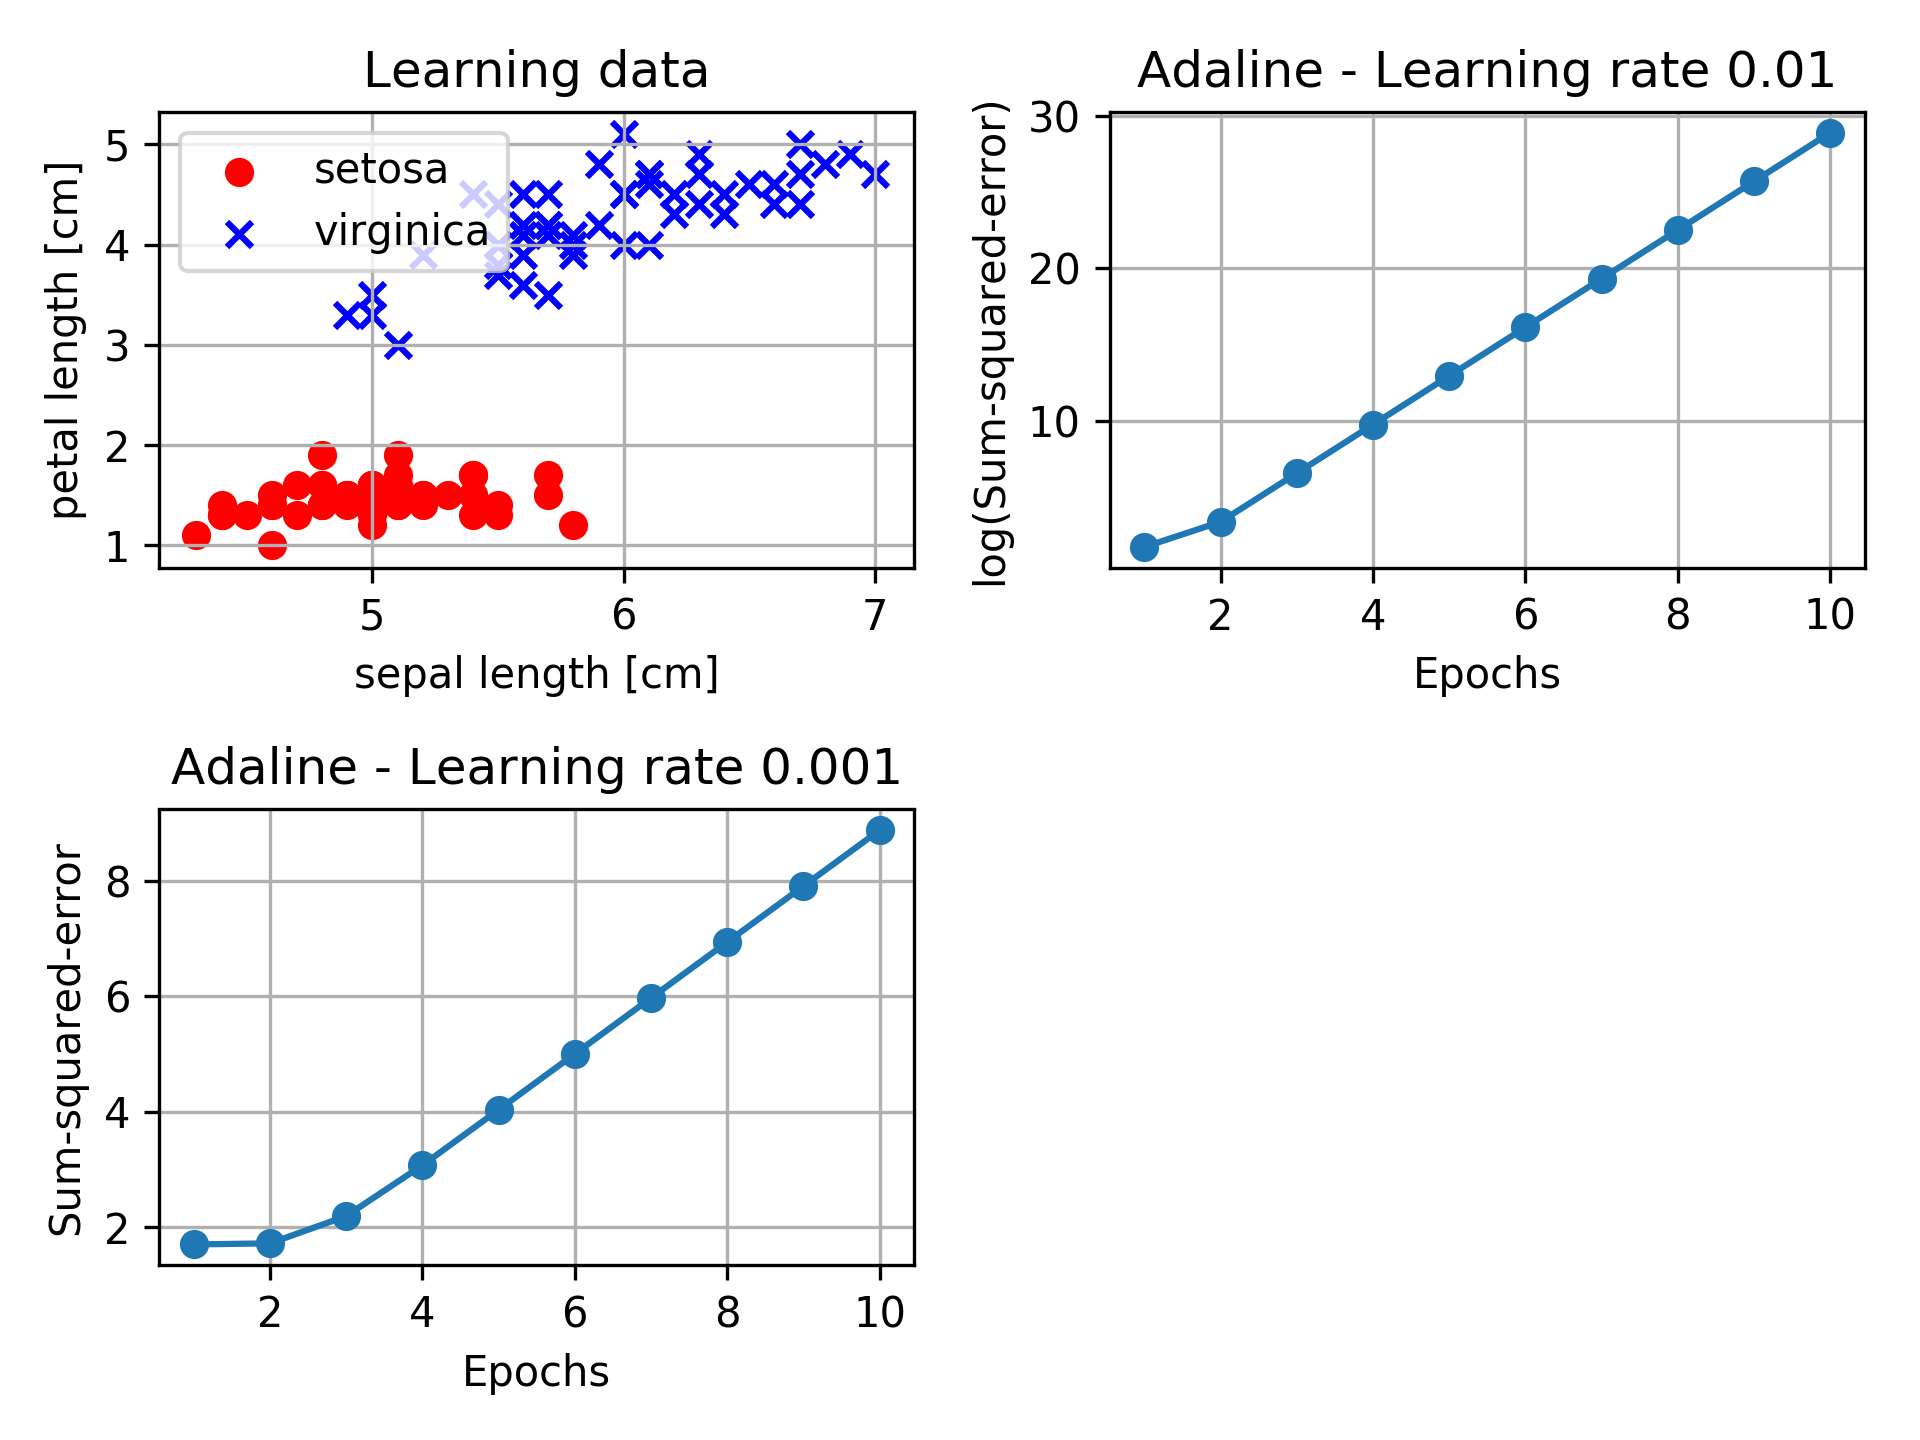
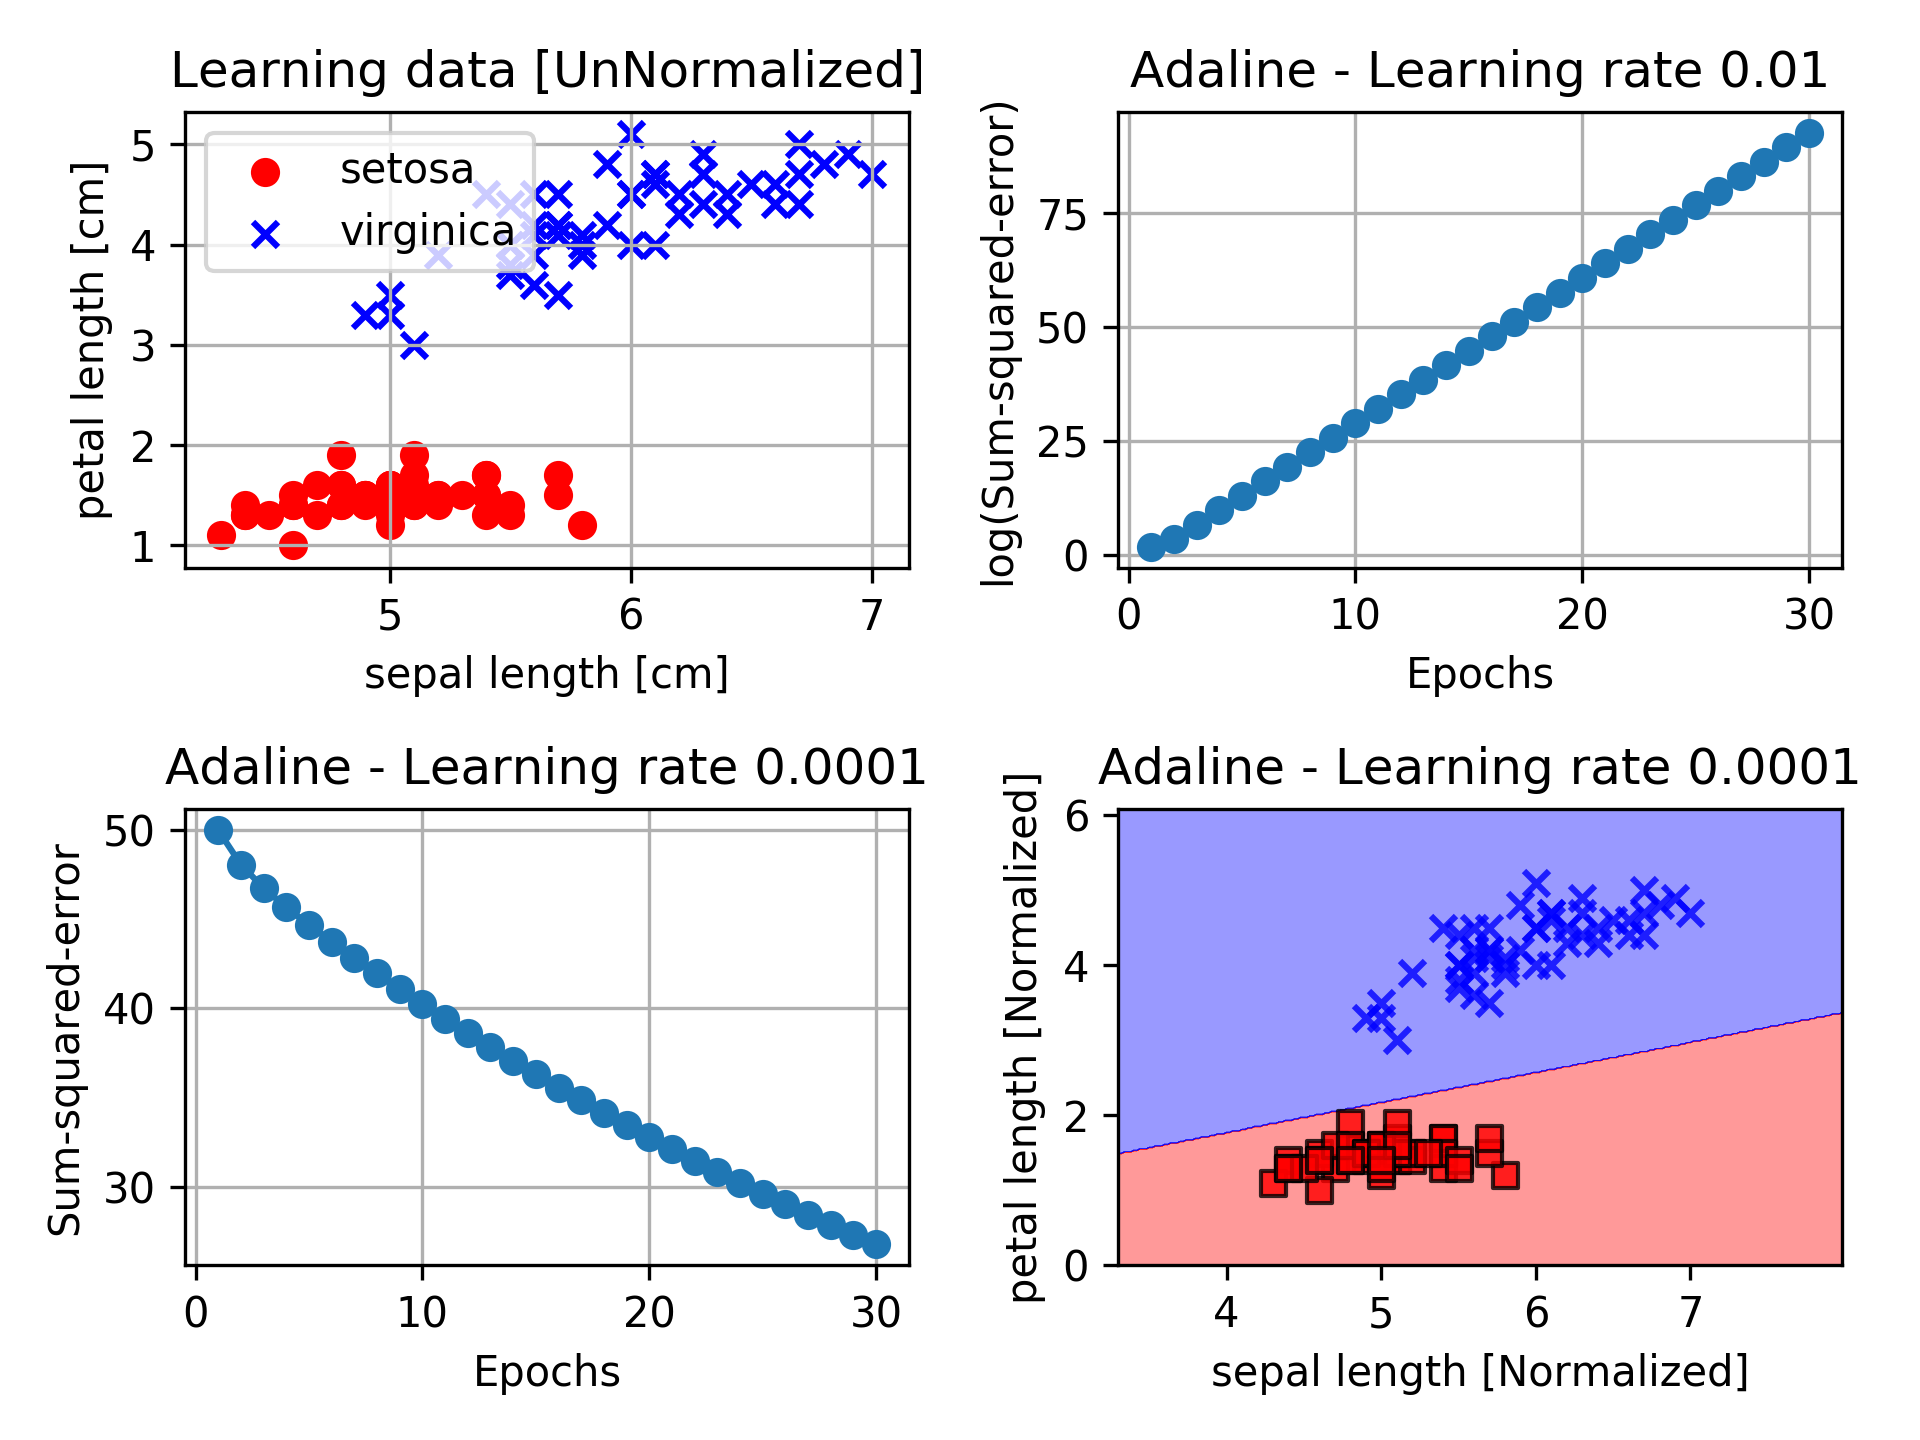
Add files via upload

diff --git a/AdaLineGD/main.py b/AdaLineGD/main.py
@@ -1,5 +1,4 @@
 # -*- coding: utf-8 -*-
-
 import numpy
 import matplotlib.pyplot as plt
 import pandas
@@ -12,82 +11,137 @@ def main():
     #----------------------------------------------------
     # pandasライブラリを使用して Iris データを読み込み (dataframe obj)
     print("reading iris data in pandas")
-    df_Iris = pandas.read_csv(
-        'https://archive.ics.uci.edu/ml/'
+    df_Iris = pandas.read_csv('https://archive.ics.uci.edu/ml/'
         'machine-learning-databases/iris/iris.data', 
-        header = None
-    )
+        header = None)
     print("finish reading iris data in pandas")
     #df_Iris.tail()
 
-    dat_y = df_Iris.iloc[ 0:100,4 ].values              #
-    dat_y = numpy.where( dat_y=="Iris-setosa", -1, 1 )  # Iris-setosa = -1, Iris-virginica = 1 に変換
-    dat_X = df_Iris.iloc[ 0:100, [0,2] ].values         # pandas DataFrame のrow,columnの指定方法（iloc:rawのindex(0 ~ ), columnのindex(0 ~ )）
+    dat_y = df_Iris.iloc[0:100,4].values              #
+    dat_y = numpy.where(dat_y == "Iris-setosa", -1, 1)  # Iris-setosa = -1, Iris-virginica = 1 に変換
+    dat_X = df_Iris.iloc[0:100, [0,2]].values         # pandas DataFrame のrow,columnの指定方法（iloc:rawのindex(0 ~ ),
+                                                      # columnのindex(0 ~ )）
 
     #----------------------------------------------------
-    #   Draw learing data
+    #   Draw learning data 1 (UnNormalized)
     #----------------------------------------------------
-    plt.subplot( 2,2,1 ) # plt.subplot(行数, 列数, 何番目のプロットか)
-    plt.grid( linestyle='-' )
+    plt.subplot(2,2,1) # plt.subplot(行数, 列数, 何番目のプロットか)
+    plt.grid(linestyle='-')
     plt.tight_layout()  # グラフ同士のラベルが重ならない程度にグラフを小さくする。
 
     # 品種 setosa のplot(赤の○)
-    plt.scatter(
-        dat_X[0:50,0], dat_X[0:50,1],
+    plt.scatter(dat_X[0:50,0], dat_X[0:50,1],
         color = "red",
         marker = "o",
-        label = "setosa"
-    )
+        label = "setosa")
     # 品種 virginica のplot(青のx)
-    plt.scatter(
-        dat_X[50:100,0], dat_X[50:100,1],
+    plt.scatter(dat_X[50:100,0], dat_X[50:100,1],
         color = "blue",
         marker = "x",
-        label = "virginica"
-    )
+        label = "virginica")
 
-    plt.title( "Learning data" )        #
-    plt.xlabel( "sepal length [cm]" )
-    plt.ylabel( "petal length [cm]" )   # label
-    plt.legend( loc = "upper left" )    # 凡例
+    plt.title("Learning data [UnNormalized]")        #
+    plt.xlabel("sepal length [cm]")
+    plt.ylabel("petal length [cm]")   # label
+    plt.legend(loc = "upper left")    # 凡例
 
     #----------------------------------------------------
-    #   set AdaLineGD & draw
+    #   set AdaLineGD & draw 1
     #----------------------------------------------------
-    ada1 = AdaLineGD.AdaLineGD( lRate = 0.01, numIter=10 )
-    ada1.fit( X_train = dat_X, y_train = dat_y )
+    ada1 = AdaLineGD.AdaLineGD(lRate = 0.01, numIter=30)
+    ada1.fit(X_train = dat_X, y_train = dat_y)
     
-    ada2 = AdaLineGD.AdaLineGD( lRate = 0.001, numIter=10 )
-    ada2.fit( X_train = dat_X, y_train = dat_y )
+    ada2 = AdaLineGD.AdaLineGD(lRate = 0.0001, numIter=30)
+    ada2.fit(X_train = dat_X, y_train = dat_y)
 
-    plt.subplot( 2,2,2 ) # plt.subplot(行数, 列数, 何番目のプロットか)
-    plt.grid( linestyle='-' )
-    plt.plot(
-        range( 1, len(ada1.cost_) + 1 ), 
+    plt.subplot(2,2,2) # plt.subplot(行数, 列数, 何番目のプロットか)
+    plt.grid(linestyle='-')
+    plt.plot(range(1, len(ada1.cost_) + 1), 
         numpy.log10(ada1.cost_), 
-        marker = 'o'
-    )
+        marker = 'o')
     plt.xlabel("Epochs")
     plt.ylabel("log(Sum-squared-error)")
     plt.title("Adaline - Learning rate 0.01")
     plt.tight_layout()  # グラフ同士のラベルが重ならない程度にグラフを小さくする。
 
-    plt.subplot( 2,2,3 ) # plt.subplot(行数, 列数, 何番目のプロットか)
-    plt.grid( linestyle='-' )
-    plt.plot(
-        range( 1, len(ada2.cost_) + 1 ), 
-        numpy.log10(ada2.cost_), 
-        marker = 'o'
-    )
+    plt.subplot(2,2,3) # plt.subplot(行数, 列数, 何番目のプロットか)
+    plt.grid(linestyle='-')
+    plt.plot(range(1, len(ada2.cost_) + 1), 
+        ada2.cost_, 
+        marker = 'o')
     plt.xlabel("Epochs")
     plt.ylabel("Sum-squared-error")
-    plt.title("Adaline - Learning rate 0.001")
+    plt.title("Adaline - Learning rate 0.0001")
     plt.tight_layout()  # グラフ同士のラベルが重ならない程度にグラフを小さくする。
-    #----------------------------------------------
 
-    #-----------------------------------------------
-    plt.savefig( "./AdalineGD_1.png", dpi=300 )
+    plt.subplot(2,2,4) # plt.subplot(行数, 列数, 何番目のプロットか)
+    plt.xlabel("sepal length [Normalized]")
+    plt.ylabel("petal length [Normalized]")        # label
+    plt.title("Adaline - Learning rate 0.0001")
+    plt.tight_layout()  # グラフ同士のラベルが重ならない程度にグラフを小さくする。
+    Plot2D.Plot2D.drawDiscriminantRegions( dat_X, dat_y, ada2 )
+    
+    plt.savefig("./AdalineGD_1.png", dpi=300)
     plt.show()
+
+
+    #----------------------------------------------------
+    #   normalized lerning data & draw
+    #----------------------------------------------------
+    dat_X_std = numpy.copy(dat_X)                                           # ディープコピー（参照コピーではない）
+    dat_X_std[:,0] = ( dat_X[:,0] - dat_X[:,0].mean() ) / dat_X[:,0].std()  # 0列目全てにアクセス[:,0]
+    dat_X_std[:,1] = ( dat_X[:,1] - dat_X[:,1].mean() ) / dat_X[:,1].std()
+
+    plt.subplot(2,2,1) # plt.subplot(行数, 列数, 何番目のプロットか)
+    plt.grid(linestyle='-')
+
+    # 品種 setosa のplot(赤の○)
+    plt.scatter(dat_X_std[0:50,0], dat_X_std[0:50,1],
+        color = "red",
+        marker = "o",
+        label = "setosa")
+    # 品種 virginica のplot(青のx)
+    plt.scatter(dat_X_std[50:100,0], dat_X_std[50:100,1],
+        color = "blue",
+        marker = "x",
+        label = "virginica")
+
+    plt.title("Learning data [Normalized]")        #
+    plt.xlabel("sepal length [Normalized]")
+    plt.ylabel("petal length [Normalized]")        # label
+    plt.legend(loc = "upper left")    # 凡例    
+    plt.tight_layout()  # グラフ同士のラベルが重ならない程度にグラフを小さくする。
+
+    #----------------------------------------------------
+    #   set AdaLineGD & draw 2 (Normalized)
+    #----------------------------------------------------
+    ada3 = AdaLineGD.AdaLineGD(lRate = 0.01, numIter=30)
+    ada3.fit(dat_X_std, dat_y)
+   
+    plt.subplot(2,2,2) # plt.subplot(行数, 列数, 何番目のプロットか)
+    plt.grid(linestyle='-')
+    plt.plot(range(1, len(ada3.cost_) + 1), 
+        ada3.cost_, 
+        marker = 'o')
+    plt.xlabel("Epochs")
+    plt.ylabel("Sum-squared-error")
+    plt.title("Adaline - Learning rate 0.01")
+    plt.tight_layout()  # グラフ同士のラベルが重ならない程度にグラフを小さくする。
+
+    plt.subplot(2,2,3) # plt.subplot(行数, 列数, 何番目のプロットか)
+    plt.xlabel("sepal length [Normalized]")
+    plt.ylabel("petal length [Normalized]")        # label
+    plt.title("Adaline - Learning rate 0.01")
+    plt.tight_layout()  # グラフ同士のラベルが重ならない程度にグラフを小さくする。
+
+    Plot2D.Plot2D.drawDiscriminantRegions( dat_X_std, dat_y, ada3 )
+
+    plt.savefig("./AdalineGD_2.png", dpi=300)
+    plt.show()
+
+    #---------------------------------------------------
+    #
+    #---------------------------------------------------
 
 if __name__ == '__main__':
      main()
